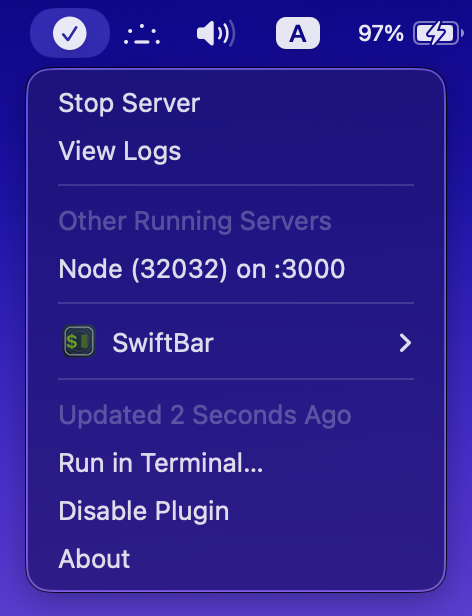
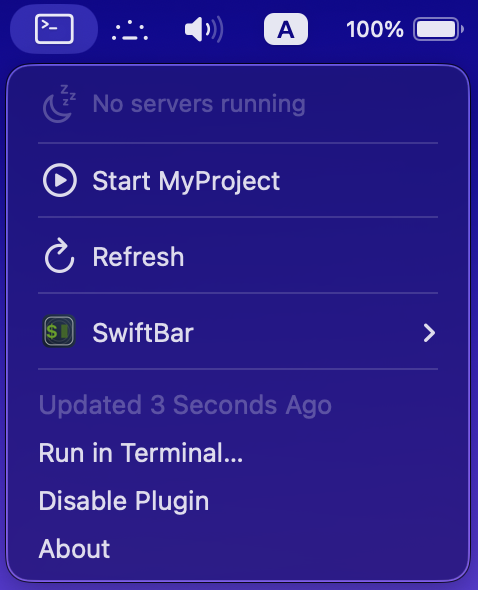
chore: cleanup code, fix docs, update screenshot
- Removed unnecessary comments and condensed code
- Fixed README: SwiftBar uses user-chosen plugin folder (not fixed path)
- Simplified configuration docs: direct PROJECT_PATH, no VAR_ complexity
- Updated preview.png with new minimalist UI

Changed region(s): [[0.0, 0.0, 1.0, 1.0]]

diff --git a/README.md b/README.md
@@ -9,63 +9,60 @@ Monitor and control all your npm dev servers from the macOS menu bar.
 
 ## Quick Start
 
-1. Install SwiftBar: `brew install swiftbar`
-2. Clone this repo to your SwiftBar plugins folder
-3. Configure the script (see below)
-4. Make scripts executable: `chmod +x *.sh`
-5. Reload SwiftBar
+1. Install [SwiftBar](https://github.com/swiftbar/SwiftBar): `brew install swiftbar`
+2. On first launch, SwiftBar will ask you to choose a **Plugin Folder**
+3. Copy `npm-dev-server.5s.sh` to your Plugin Folder
+4. Configure the script (see below)
+5. Make it executable: `chmod +x npm-dev-server.5s.sh`
 
 ## Configuration
 
-Edit the **CONFIGURATION** section at the top of `npm-dev-server.5s.sh`:
+Open `npm-dev-server.5s.sh` and edit the **CONFIGURATION** section:
 
 ```bash
-# Default project path for "Start Server" action
-PROJECT_PATH="${VAR_PROJECT_PATH:-$HOME/projects/my-app}"
-
-# Command to start the server
-DEV_COMMAND="${VAR_DEV_COMMAND:-npm run dev}"
-
-# Resource warning thresholds
-CPU_WARNING_THRESHOLD=80      # Warn if CPU > 80%
-MEMORY_WARNING_THRESHOLD=500  # Warn if memory > 500MB
+# ===== CONFIGURATION =====
+# Change this to your project path:
+PROJECT_PATH="$HOME/projects/my-app"
+DEV_COMMAND="npm run dev"
+CPU_WARNING_THRESHOLD=80
+MEMORY_WARNING_THRESHOLD=500
+# ===== END CONFIGURATION =====
 ```
+
+**Important:** Set `PROJECT_PATH` to the full path of your npm project.
 
 ## Features
 
-* **Auto-Detection** — Automatically finds ALL running node servers on your machine
+* **Auto-Detection** — Finds ALL running node servers on your machine
 * **Resource Monitoring** — Real-time CPU% and memory usage per server
-* **One-Click Actions** — Start, stop, or force-kill servers directly from the menu
-* **Quick Access** — Click any server to open `localhost:PORT` in your browser
-* **Warning Indicators** — Visual alerts for high CPU/memory or stuck processes
-* **Minimalist Design** — Clean monochrome SF Symbols, no distracting colors
+* **One-Click Actions** — Start, stop, or force-kill servers from the menu
+* **Quick Access** — Click any server to open `localhost:PORT` in browser
+* **Warning Indicators** — Alerts for high CPU/memory or stuck processes
+* **Minimalist Design** — Clean monochrome SF Symbols
 
 ## Menu Structure
 
 **When idle:**
 ```
-⌘                              ← Terminal icon (no servers)
+⌘                              ← Terminal icon
 ───
   No servers running
 ───
-▶ Start my-app                 ← Direct click to start
+▶ Start my-app                 ← Click to start
 ───
 ↻ Refresh
 ```
 
 **When servers running:**
 ```
-⌘ 2                            ← Terminal icon + count
+⌘ 2                            ← Count badge
 ───
 ✓ my-app :3000                 ← Click to open in browser
    2.1% CPU · 125MB
-   /Users/you/projects/my-app
+   /path/to/project
    ───
    ⏹ Stop
    📄 Logs
-───
-✓ api-server :4000
-   ...
 ───
 ▶ Start my-app
 ───
@@ -74,31 +71,24 @@ MEMORY_WARNING_THRESHOLD=500  # Warn if memory > 500MB
 
 ## Files
 
-- `npm-dev-server.5s.sh` — Main SwiftBar plugin
-- `~/.npm-dev-server/` — Runtime data (auto-created)
+- `npm-dev-server.5s.sh` — Main plugin
+- `~/.npm-dev-server/` — Runtime data (logs, PIDs)
 
 ## Customization
 
-Rename the plugin file to change refresh rate:
+Rename the file to change refresh rate:
 - `npm-dev-server.30s.sh` = 30 seconds
 - `npm-dev-server.1m.sh` = 1 minute
 
 ## Troubleshooting
 
-### Error plugin appearing with "server" name
-Clean up old SwiftBar data directories:
-```bash
-rm -rf "$HOME/Library/Application Support/SwiftBar/Plugins/npm-dev-server.5s.sh"
-rm -rf "$HOME/Library/Application Support/SwiftBar/Plugins/server.log"
-```
-
 ### Server won't start
 - Verify `PROJECT_PATH` points to a valid npm project
-- Test manually: `cd ~/your-project && npm run dev`
+- Test manually: `cd /your/project && npm run dev`
 - Check logs: `cat ~/.npm-dev-server/servers/*.log`
 
 ### Server not detected
-Only `node` processes listening on TCP ports are detected. Check manually:
+Only `node` processes listening on TCP ports are detected:
 ```bash
 lsof -iTCP -sTCP:LISTEN -n -P | grep node
 ```
